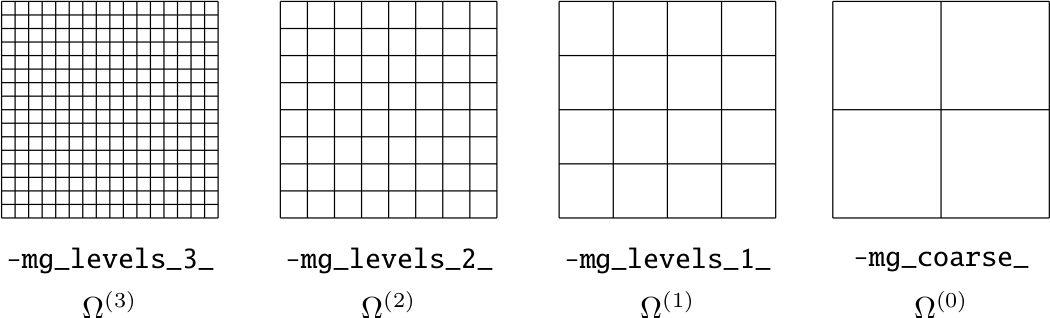
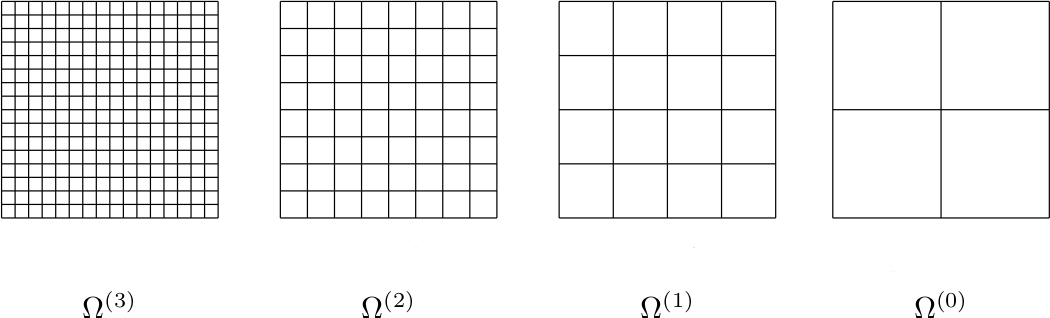
progress, and decluttered images

diff --git a/2023/multigrid/slides.tex b/2023/multigrid/slides.tex
@@ -252,7 +252,7 @@ $$\grad^2 u(x_i,y_j) \approx \frac{U_{i-1,j} - 2 U_{ij} + U_{i+1,j}}{h_x^2} + \f
 \end{frame}
 
 
-\section{regarding simple iterations}
+\section{simple iterations?}
 
 \begin{frame}{cheap $O(N)$ operation: $A\bv$ and the residual}
 \begin{itemize}
@@ -274,20 +274,29 @@ observe that:
 
 \begin{frame}{more cheap $O(N)$ operations: certain simple iterations}
 
-\begin{definition} for the linear system $A\bu=\bb$, an invertible matrix $M\in \RR^{N\times N}$, and scalar $\alpha$,
-    $$\bv_{k+1} = \bv_k + \alpha M^{-1} \left(\bb - A \bv_k\right)$$
+\begin{definition} for the linear system $A\bu=\bb$ and an invertible matrix $M\in \RR^{N\times N}$,
+    $$\bv_{k+1} = \bv_k + \alpha\, M^{-1} \left(\bb - A \bv_k\right)$$
 is called \emph{simple iteration}
 \end{definition}
 
 \bigskip
 \begin{itemize}
-\item a simple iteration is $O(N)$ \dots \emph{if} $M$ is the right kind of matrix
-\item \emph{Richardson} iteration is when $M=I$, for which $O(N)$ is clear
+\item $\alpha\in\RR$ is simply a tuning parameter, with default $\alpha=1$
+\item \emph{Richardson iteration} \quad $\bv_{k+1} = \bv_k + \alpha\, \br(\bv_k)$ \quad is the $M=I$ case
+	\begin{itemize}
+	\item[$\circ$] $O(N)$ is clear
+
+\medskip
+	\item[$\circ$] observation: Richardson iteration for the Poisson equation \emph{is} gradient descent for the functional \quad $\displaystyle I[v] = \alpha \int_\Omega \frac{1}{2} |\grad v|^2 - f v\,dx\,dy$
+	\end{itemize}
+
+\medskip
+\item a simple iteration is $O(N)$ \dots \emph{if} $M$ is the right kind of matrix!
 \end{itemize}
 \end{frame}
 
 
-\begin{frame}{preconditioned linear system, and preconditioners}
+\begin{frame}{preconditioned linear systems}
 
 \begin{definition} if a matrix or linear map $M$ on $\RR^N$ is invertible, we say
     $$M^{-1} A \bu = M^{-1} \bb$$
@@ -295,16 +304,24 @@ is the \emph{(left-) preconditioned} system
 \end{definition}
 
 \begin{itemize}
-\item preconditioned system has same solutions because $M$ is invertible
+\item new system has same solutions as before because $M$ is invertible
+\item the new residual is $\tilde{\br}(\bv) = M^{-1} \bb - M^{-1} A \bv$
+\item observation: Richardson iteration on the new system is equivalent to simple iteration
+    $$\bv_{k+1} = \bv_k + \alpha\, \tilde{\br}(\bv) \quad \iff \quad \bv_{k+1} = \bv_k + \alpha\, M^{-1} \left(\bb - A \bv_k\right)$$
 \end{itemize}
+\end{frame}
+
+
+\begin{frame}{fast preconditioners?}
 
 \begin{definition} a matrix or linear map $M$ is a \emph{fast preconditioner} if solving $M\bz=\bc$ requires $O(N)$ work
 \end{definition}
 
 \begin{itemize}
-\item equivalently: multiplication by $M^{-1}$ is $O(N)$
 \item example: if $A$ has nonzero diagonal entries, the diagonal $M=D$ is a fast preconditioner
+\item ``multiplication by $M^{-1}$ is $O(N)$'' for a fast preconditioner, but (often) not if you actually form the matrix $M^{-1}$!
 \item warning: a preconditioner $M$ can be fast without being a useful tool!
+\item preconditioning is an apparently simple idea, but in 21st century one sees them used as tools all over the space of solvers
 \end{itemize}
 \end{frame}
 
@@ -345,12 +362,16 @@ each \emph{Gauss-Seidel iteration}, a simple iteration, is $O(N)$:
 \begin{frame}{example of Gauss-Seidel iteration}
 \begin{itemize}
 \item the matrix-splitting view obscures the simplicity of Gauss-Seidel \dots
-\item \emph{example}: for the linear system $A\bu=\bb$ with
-    $$A = \begin{bmatrix} 2 & -1 & & & & \\ -1 & 2 & -1 & & & \\ & -1 & 2 & -1 & & \\ & & \ddots & \ddots & \ddots & \\ & \Big. & & -1 & 2 & -1 \\ & & & & -1 & 2 \end{bmatrix}, \qquad \bb = \begin{bmatrix} b_1 \\ b_2 \\ b_3 \\ \vdots \\ b_N \end{bmatrix},$$
-Gauss-Seidel is the iteration which generates $\bv^{[k]}$ by
+\item \emph{example}: consider the linear system $A\bu=\bb$ with
+    $$A = \begin{bmatrix} 2 & -1 & & & & \\ -1 & 2 & -1 & & & \\ & -1 & 2 & -1 & & \\ & & \ddots & \ddots & \ddots & \\ & \Big. & & -1 & 2 & -1 \\ & & & & -1 & 2 \end{bmatrix}, \qquad \bb = \begin{bmatrix} b_1 \\ b_2 \\ b_3 \\ \vdots \\ b_N \end{bmatrix}$$
+
+    \begin{itemize}
+    \item[$\circ$] here Gauss-Seidel iteration computes $\bv^{[k+1]}$ by
     $$v_j^{[k+1]} = \frac{b_j}{2} + \frac{1}{2} \left(v_{j-1}^{[k+1]} + v_{j+1}^{[k]}\right)$$
-\item this is a \emph{relaxation} method \dots update $v_j$ using average of neighbors
-\item this example is relevant because $A \sim -\grad^2$
+    \item[$\circ$] this is a \emph{relaxation} method \dots update $v_j$ using average of neighbors
+    \item[$\circ$] one can prove this method converges
+    \item[$\circ$] this example is relevant because $A \sim -\grad^2$ in 1D
+    \end{itemize}
 \end{itemize}
 \end{frame}
 
@@ -360,12 +381,9 @@ Gauss-Seidel is the iteration which generates $\bv^{[k]}$ by
 \begin{columns}
 \begin{column}{0.5\textwidth}
 \begin{itemize}
-\item for Poisson problem linear system $A\bu=\bb$, one can prove that Gauss-Seidel converges!
-    \begin{itemize}
-    \item[$\circ$] same for Jacobi
-    \end{itemize}
-\item but, after initial progress, \emph{agonizingly slowly} on fine grids \dots
-\item an iteration $\bv_{k+1} = \phi(\bv_k)$ \emph{stagnates} or \emph{stalls} if the residual norms $\{\|\br(\bv_k)\|\}$ go to zero more slowly than we want
+\item for the Poisson problem linear system $A\bu=\bb$, one can prove that Gauss-Seidel and Jacobi converge
+\item but, after initial progress, \emph{agonizingly slowly} on fine grids \dots they stagnate
+\item an iteration $\bv_{k+1} = \phi(\bv_k)$ \emph{stagnates} or \emph{stalls} if the ratio of successive residual norms $\{\|\br(\bv_{k+1})\|/\|\br(\bv_k)\|\}$ goes to one
 \end{itemize}
 \end{column}
 \begin{column}{0.5\textwidth}
@@ -394,15 +412,29 @@ way to achieve the same goal.
 
 \begin{frame}{Jacobi and Gauss-Seidel iterations \emph{as smoothers}}
 \begin{itemize}
-\item FIXME but smoothers Figure 6.2, 6.3
+\item however, the first
+
+few residuals are
+
+\emph{much smoother}
+
+than the initial
+
+residual
+\end{itemize}
+
+\vspace{-25mm}
 
 \only<1>{
 \hfill \includegraphics[height=0.75\textheight]{images/smoothing-space.png}
+
+\hfill {\scriptsize Jacobi \hspace{17mm} $\alpha=\frac{2}{3}$ Jacobi \hspace{12mm} Gauss-Seidel \hspace{3mm}}
 }
 \only<2>{
 \hfill \includegraphics[height=0.75\textheight]{images/smoothing-freq.png}
+
+\hfill {\scriptsize Jacobi \hspace{17mm} $\alpha=\frac{2}{3}$ Jacobi \hspace{12mm} Gauss-Seidel \hspace{3mm}}
 }
-\end{itemize}
 \end{frame}
 
 
@@ -419,7 +451,8 @@ $$\includegraphics[width=0.15\textwidth]{images/fine.png} \qquad
 \qquad \includegraphics[width=0.15\textwidth]{images/coarse.png}$$
 }
 \begin{itemize}
-\item x
+\item we are close to multigrid, but we need to talk about multiple grids!
+\item 
 \end{itemize}
 \end{frame}
 
